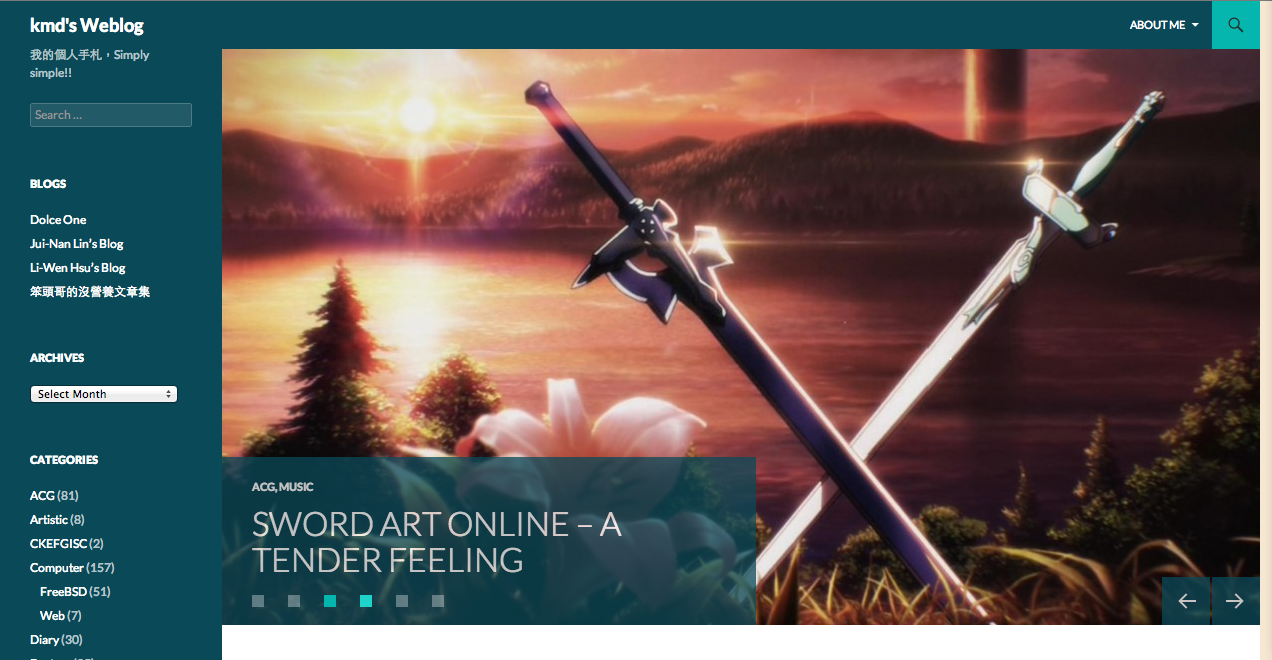
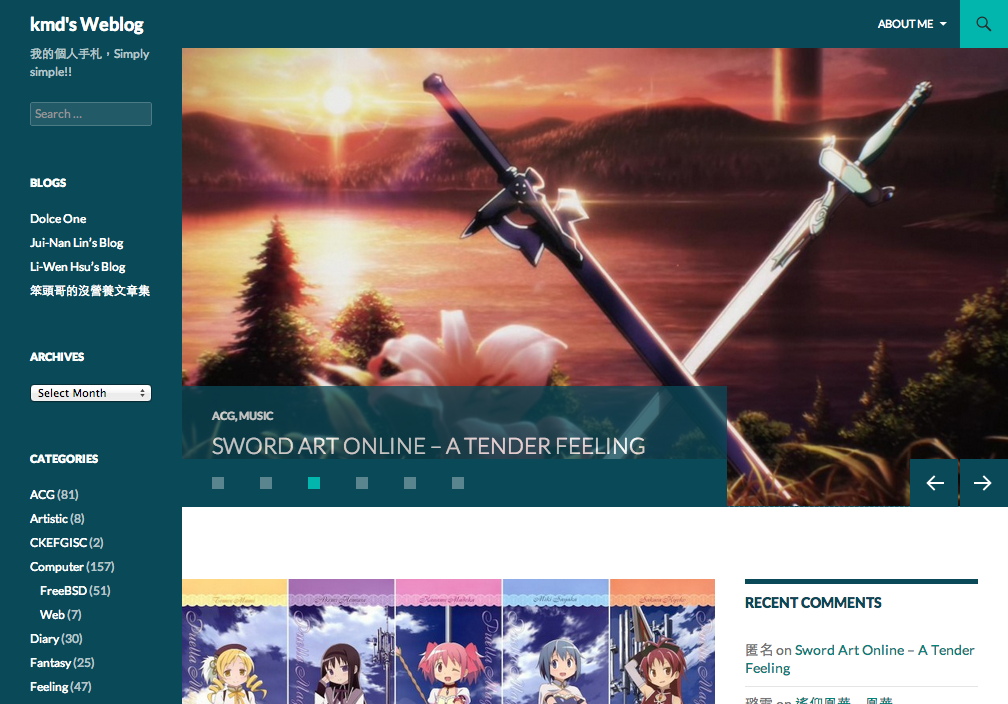
update screenshot; add rtl support.

diff --git a/twentyfourteen-child/style.css b/twentyfourteen-child/style.css
@@ -1,17 +1,16 @@
 /*
 Theme Name: Twenty Fourteen Child
 Theme URI: http://example.com/twentyfourteen-child/
+Description: Derived from WordPress 2014 official theme, fine-tuned for mobile devices to improve readability.
 Author: Kuo-Cheng Yeu
 Author URI: http://mikuru.tw/
-Description: In 2014, our default theme lets you create a responsive magazine website with a sleek, modern design. Feature your favorite homepage content in either a grid or a slider. Use the three widget areas to customize your website, and change your content's layout with a full-width page template and a contributor page to show off your authors. Creating a magazine website with WordPress has never been easier.
-Version: 1.0
+Template: twentyfourteen
+Version: 1.0.0
 License: GNU General Public License v2 or later
 License URI: http://www.gnu.org/licenses/gpl-2.0.html
 Tags: black, green, white, light, dark, two-columns, three-columns, left-sidebar, right-sidebar, fixed-layout, responsive-layout, custom-background, custom-header, custom-menu, editor-style, featured-images, flexible-header, full-width-template, microformats, post-formats, rtl-language-support, sticky-post, theme-options, translation-ready, accessibility-ready
 Text Domain: twentyfourteen-child
 
-This theme, like WordPress, is licensed under the GPL.
-Use it to make something cool, have fun, and share what you've learned with others.
 */
 
 @import url("../twentyfourteen/style.css");
@@ -36,13 +35,11 @@ Use it to make something cool, have fun, and share what you've learned with othe
  */
 
 .entry-header {
-	position: relative;
-	//z-index: 1;
-	z-index: 2; /* modded by kmd, to avoid touch scroll malfunction when small screen */
+	z-index: 2; /* to avoid touch scroll malfunction when small screen */
 }
 
 .site-content .entry-header {
-    opacity: 0.75; /* added by kmd, title of post*/
+    opacity: 0.75; /* title of post*/
 	background-color: #fff;
 	padding: 0 10px 12px;
 }
@@ -57,37 +54,22 @@ Use it to make something cool, have fun, and share what you've learned with othe
 
 .featured-content .entry-header {
     bottom: 0;
-    opacity: 0.75;  /* added by kmd */
-    position: absolute; /* added by kmd */
-	background-color: #000;
-	-webkit-box-sizing: border-box;
-	-moz-box-sizing:    border-box;
-	box-sizing:         border-box;
-	min-height: 96px;
-	overflow: hidden;
-	padding: 24px 10px;
+    opacity: 0.75;
+    position: absolute;
 }
 
 
 .slider-control-paging {
-	//background-color: #000;
-	background-color: #0a4958;  /* modded by kmd, hard-code hack */
+	background-color: #0a4958;  /* hard-code hack */
 }
 
 /**
  * 11.0 Media Queries
  * -----------------------------------------------------------------------------
  */
-
-/* Does the same thing as <meta name="viewport" content="width=device-width">,
- * but in the future W3C standard way. -ms- prefix is required for IE10+ to
- * render responsive styling in Windows 8 "snapped" views; IE10+ does not honor
- * the meta tag. See http://core.trac.wordpress.org/ticket/25888.
- */
 @media screen and (max-width: 400px) {
-    /* added by kmd, start */
     .featured-content .entry-header {
-        width: 100%;
+        width: 100%;        /* enhance readability */
         min-height: 64px;
         padding: 8px 8px; /* small screen height */
     }
@@ -105,10 +87,9 @@ Use it to make something cool, have fun, and share what you've learned with othe
 
 @media screen and (min-width: 401px) {
 	a.post-thumbnail:hover img {
-		opacity: 0.9;    /* commented by kmd, no transparency when hover */
+		opacity: 0.9;    /* no transparency when hover */
 	}
 
-    /* added by kmd, start */
     .featured-content .entry-header {
         width: 100%;
         padding: 12px 10px; /* small screen height */
@@ -118,18 +99,21 @@ Use it to make something cool, have fun, and share what you've learned with othe
         //text-overflow: ellipsis;
         white-space: nowrap;
     }
-    /* added by kmd, end */
 }
 
 @media screen and (min-width: 594px) {
-    /* added by kmd, end */
     .featured-content a {
         white-space: normal;
     }
-    /* added by kmd, end */
 }
 
 @media screen and (min-width: 673px) {
+    .slider .featured-content .entry-header {
+        opacity: 0.75; /* title of featured content*/
+        width: 66%;
+    }
+
+    .slider-control-paging {
+        width: 66%;
+    }
 }
-
-

diff --git a/twentyfourteen-child/rtl.css b/twentyfourteen-child/rtl.css
@@ -1,0 +1,7 @@
+/*
+Theme Name: Twenty Fourteen Child
+Template: twentyfourteen
+*/
+
+@import url("../twentyfourteen/rtl.css");
+
